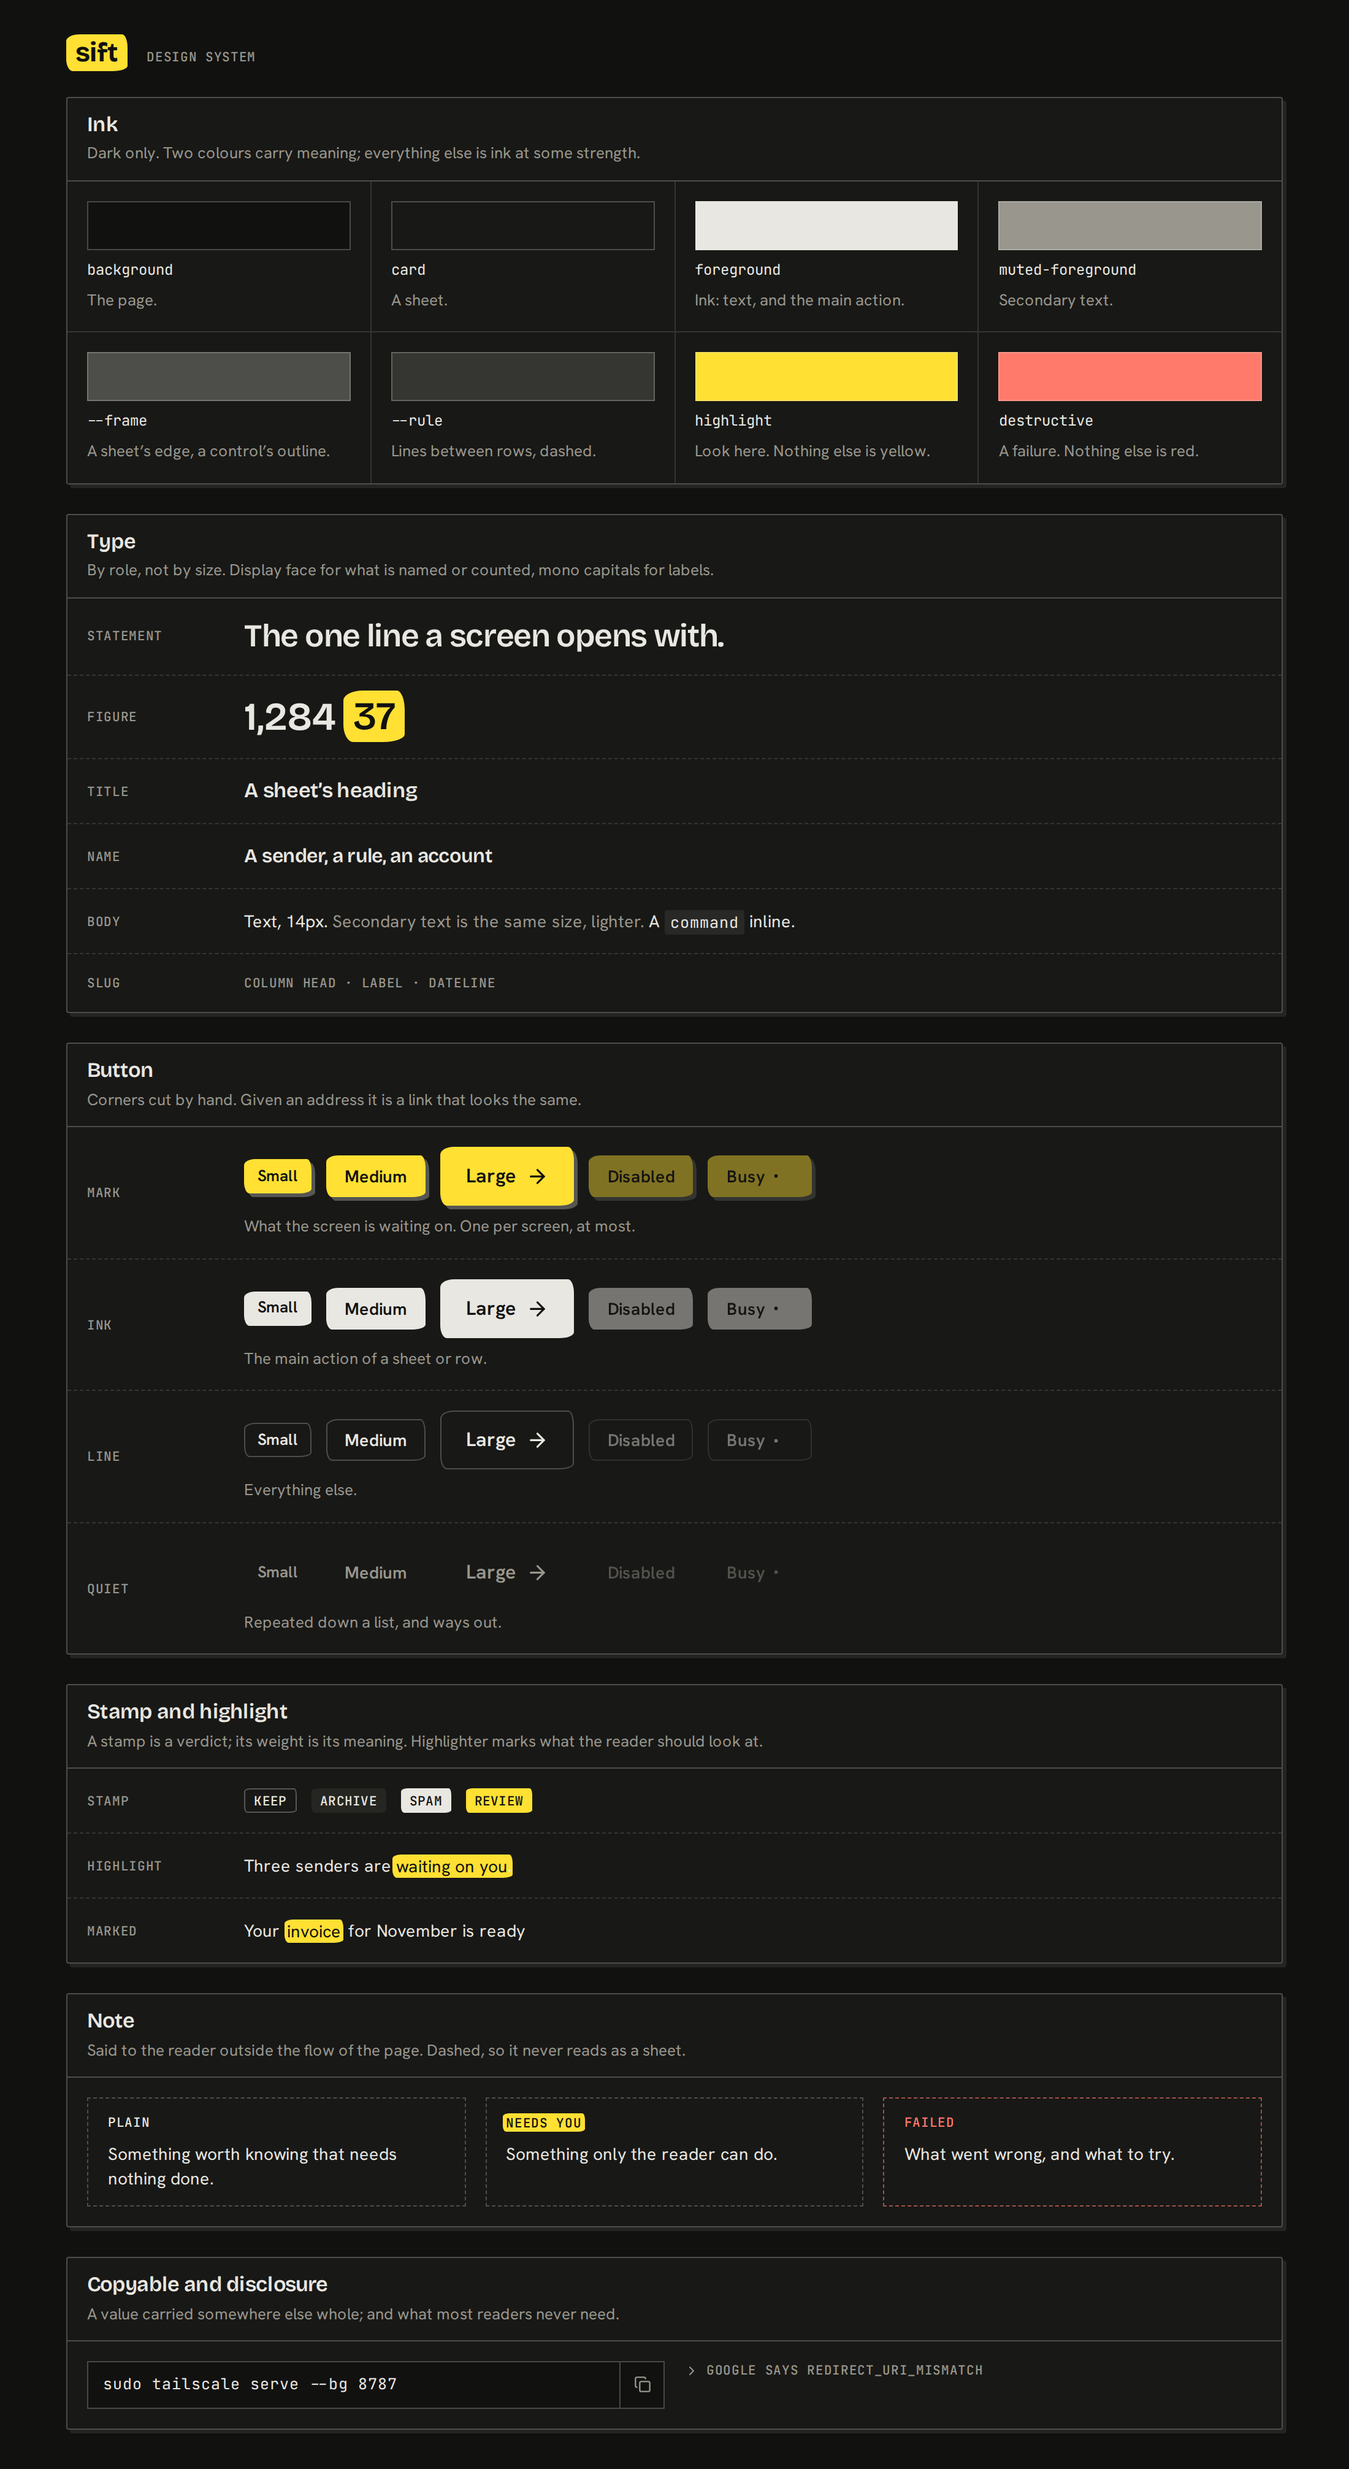
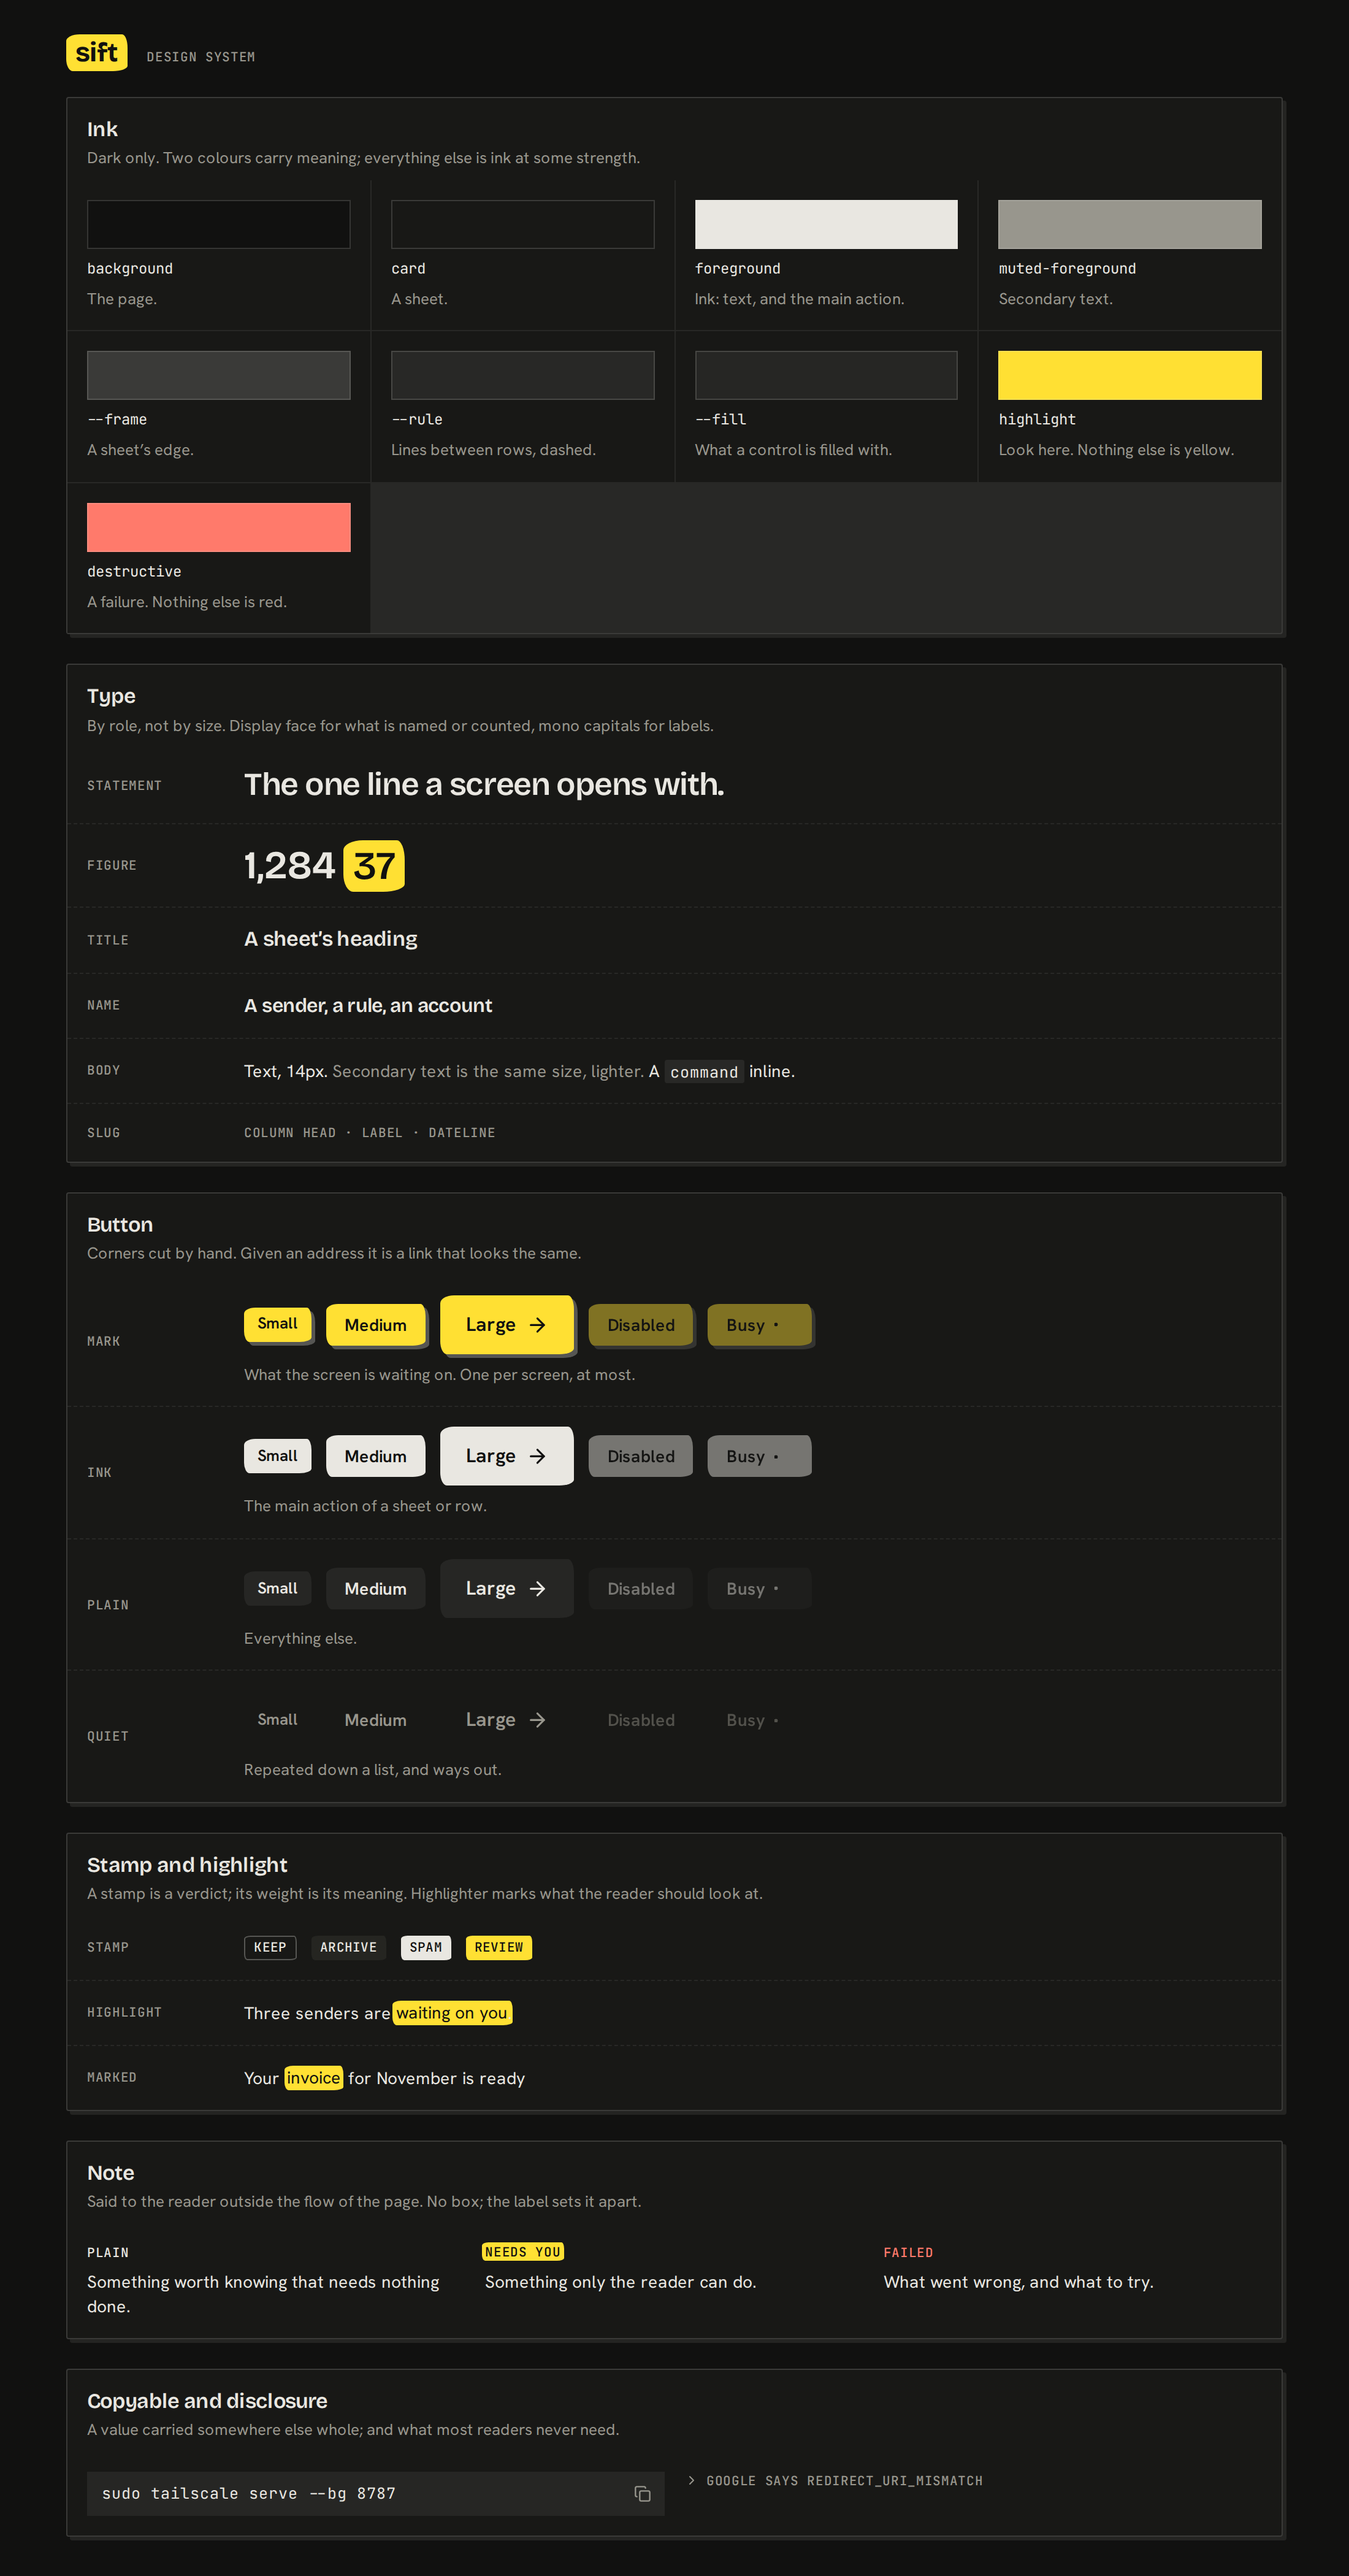
Design system: less chrome
Controls are filled instead of outlined, notes and sheet headings lose
their box and rule, and the lines that remain are fainter. Inside a
sheet, space and type separate things before any line does.

diff --git a/web/src/index.css b/web/src/index.css
@@ -97,8 +97,11 @@
   --edge-strong: color-mix(in oklab, var(--foreground) 30%, transparent);
 
   /* Lines are drawn in the ink colour at low strength, never a separate grey. */
-  --rule: color-mix(in oklab, var(--foreground) 14%, transparent);
-  --frame: color-mix(in oklab, var(--foreground) 26%, transparent);
+  --rule: color-mix(in oklab, var(--foreground) 8%, transparent);
+  --frame: color-mix(in oklab, var(--foreground) 17%, transparent);
+  /* What a control is filled with, in place of an outline. */
+  --fill: color-mix(in oklab, var(--foreground) 7%, transparent);
+  --fill-strong: color-mix(in oklab, var(--foreground) 13%, transparent);
 
   /* Tiers are an ordered cascade, cheapest first, so they share one ink that thins as cost rises.
      Mail no tier could decide gets the highlighter. Checked as an ordinal ramp against the card. */
@@ -291,15 +294,19 @@
 [data-slot='select-trigger'],
 [data-slot='input'],
 [data-slot='button'][data-variant='outline'] {
-  border-color: var(--frame);
-  background-color: transparent;
+  border-color: transparent;
+  background-color: var(--fill);
+}
+[data-slot='select-trigger']:hover,
+[data-slot='input']:hover {
+  background-color: var(--fill-strong);
 }
 [data-slot='select-content'],
 [data-slot='sheet-content'] {
   border-radius: 2px;
 }
 
-/* Lines within a sheet are faint dashes, like the rules of a form; its heading sits over a solid one. */
+/* The only lines within a sheet are faint dashes between rows. A heading is set apart by space. */
 .sheet [data-slot='table-row'],
 .sheet .row {
   border-bottom: 1px dashed var(--rule);
@@ -308,9 +315,8 @@
 .sheet .row:last-child {
   border-bottom: 0;
 }
-.sheet [data-slot='table-header'] [data-slot='table-row'],
-.sheet .sheet-head {
-  border-bottom: 1px solid var(--frame);
+.sheet [data-slot='table-header'] [data-slot='table-row'] {
+  border-bottom: 1px dashed var(--rule);
 }
 .stats {
   background-color: var(--rule);

diff --git a/web/src/views/settings.tsx b/web/src/views/settings.tsx
@@ -64,7 +64,7 @@ function Running({ state, reload }: { state: ManageState; reload: () => void }) 
         }
         action={
           activity.sorting ? (
-            <Button variant="line" size="sm" disabled={busy} onClick={() => run(() => api.checkNow(), reload)}>
+            <Button variant="plain" size="sm" disabled={busy} onClick={() => run(() => api.checkNow(), reload)}>
               Check now
             </Button>
           ) : null
@@ -80,7 +80,7 @@ function Running({ state, reload }: { state: ManageState; reload: () => void }) 
         note={settings.act ? 'Decisions are carried out in Gmail. Each can be undone under Changes.' : 'Nothing in Gmail is changed.'}
       >
         {settings.act ? (
-          <Button variant="line" size="sm" disabled={busy} onClick={() => save({ act: false })}>
+          <Button variant="plain" size="sm" disabled={busy} onClick={() => save({ act: false })}>
             Go back to observing
           </Button>
         ) : confirming ? (
@@ -102,7 +102,7 @@ function Running({ state, reload }: { state: ManageState; reload: () => void }) 
             </Button>
           </>
         ) : (
-          <Button variant="line" size="sm" disabled={busy} onClick={() => setConfirming(true)}>
+          <Button variant="plain" size="sm" disabled={busy} onClick={() => setConfirming(true)}>
             Let sift act…
           </Button>
         )}
@@ -129,7 +129,7 @@ function Accounts({ state }: { state: ManageState }) {
       <SheetHead
         title="Accounts"
         action={
-          <Button variant="line" size="sm" href="/auth/login?add=1">
+          <Button variant="plain" size="sm" href="/auth/login?add=1">
             Connect another
           </Button>
         }

diff --git a/web/src/views/system.tsx b/web/src/views/system.tsx
@@ -7,8 +7,9 @@ const INKS = [
   ['bg-card', 'card', 'A sheet.'],
   ['bg-foreground', 'foreground', 'Ink: text, and the main action.'],
   ['bg-muted-foreground', 'muted-foreground', 'Secondary text.'],
-  ['bg-(--frame)', '--frame', 'A sheet’s edge, a control’s outline.'],
+  ['bg-(--frame)', '--frame', 'A sheet’s edge.'],
   ['bg-(--rule)', '--rule', 'Lines between rows, dashed.'],
+  ['bg-(--fill)', '--fill', 'What a control is filled with.'],
   ['bg-highlight', 'highlight', 'Look here. Nothing else is yellow.'],
   ['bg-destructive', 'destructive', 'A failure. Nothing else is red.'],
 ] as const;
@@ -16,7 +17,7 @@ const INKS = [
 const VARIANTS = [
   ['mark', 'What the screen is waiting on. One per screen, at most.'],
   ['ink', 'The main action of a sheet or row.'],
-  ['line', 'Everything else.'],
+  ['plain', 'Everything else.'],
   ['quiet', 'Repeated down a list, and ways out.'],
 ] as const;
 
@@ -114,7 +115,7 @@ export function SystemView() {
       </Sheet>
 
       <Sheet>
-        <SheetHead title="Note" description="Said to the reader outside the flow of the page. Dashed, so it never reads as a sheet." />
+        <SheetHead title="Note" description="Said to the reader outside the flow of the page. No box; the label sets it apart." />
         <div className="grid gap-4 p-4 sm:grid-cols-3">
           <Note title="Plain">
             <p>Something worth knowing that needs nothing done.</p>

diff --git a/web/src/system/button.tsx b/web/src/system/button.tsx
@@ -10,9 +10,9 @@ const VARIANT = {
   /** The main action of a sheet or a row. */
   ink: 'bg-foreground text-background hover:bg-foreground/85',
   /** Everything else. */
-  line: 'border-(--frame) hover:bg-foreground/8',
+  plain: 'bg-(--fill) hover:bg-(--fill-strong)',
   /** Actions that repeat down a list, and ways out. */
-  quiet: 'text-muted-foreground hover:bg-foreground/8 hover:text-foreground',
+  quiet: 'text-muted-foreground hover:bg-(--fill) hover:text-foreground',
 } as const;
 
 const SIZE = {
@@ -32,7 +32,7 @@ interface Own {
 type Props = Own & (({ href: string } & Omit<ComponentProps<'a'>, 'children'>) | ({ href?: undefined } & Omit<ComponentProps<'button'>, 'children'>));
 
 /** Something you press. Given `href` it is a link that looks the same. */
-export function Button({ variant = 'line', size = 'md', busy = false, className, children, ...rest }: Props) {
+export function Button({ variant = 'plain', size = 'md', busy = false, className, children, ...rest }: Props) {
   const classes = cn(BASE, VARIANT[variant], SIZE[size], busy && 'pointer-events-none', className);
   const content = (
     <>

diff --git a/web/src/system/copyable.tsx b/web/src/system/copyable.tsx
@@ -7,13 +7,13 @@ export function Copyable({ value, label }: { value: string; label: string }) {
   // The clipboard is only offered to pages on localhost or HTTPS.
   const clipboard = typeof navigator !== 'undefined' ? navigator.clipboard : undefined;
   return (
-    <div className="flex items-stretch border border-(--frame) bg-background">
+    <div className="flex items-stretch bg-(--fill)">
       <code className="min-w-0 flex-1 px-3 py-2 font-mono text-[12.5px] leading-relaxed break-all select-all">{value}</code>
       {clipboard ? (
         <button
           type="button"
           aria-label={copied ? 'Copied' : `Copy ${label}`}
-          className="flex w-9 shrink-0 cursor-pointer items-center justify-center border-l border-(--frame) text-muted-foreground hover:bg-foreground/8 hover:text-foreground"
+          className="flex w-9 shrink-0 cursor-pointer items-center justify-center text-muted-foreground hover:bg-(--fill) hover:text-foreground"
           onClick={() =>
             void clipboard.writeText(value).then(() => {
               setCopied(true);

diff --git a/web/src/system/note.tsx b/web/src/system/note.tsx
@@ -3,7 +3,7 @@ import { cn } from '@/lib/utils';
 
 /**
  * Something said to the reader outside the flow of the page. `look` needs them to do something;
- * `failure` is the only place red appears.
+ * `failure` is the only place red appears. No box: the label sets it apart.
  */
 export function Note({
   tone = 'plain',
@@ -17,10 +17,7 @@ export function Note({
   className?: string;
 }) {
   return (
-    <div
-      role={tone === 'failure' ? 'alert' : undefined}
-      className={cn('flex flex-col gap-2 border border-dashed px-4 py-3 text-sm', tone === 'failure' ? 'border-destructive/60' : 'border-(--frame)', className)}
-    >
+    <div role={tone === 'failure' ? 'alert' : undefined} className={cn('flex flex-col gap-1.5 text-sm', className)}>
       {title ? (
         <p className="slug">
           <span className={cn(tone === 'look' && 'hl', tone === 'failure' && 'text-destructive')}>{title}</span>

diff --git a/web/src/views/sign-in.tsx b/web/src/views/sign-in.tsx
@@ -34,7 +34,7 @@ function Ready({ session }: { session: Session }) {
         Sign in with Google
         <ArrowRightIcon aria-hidden />
       </Button>
-      <div className="mt-1 border-t border-dashed border-(--rule) pt-4">
+      <div className="mt-2">
         <Disclosure summary="Google says redirect_uri_mismatch">
           <p>Add this to the client's authorised redirect URIs, in Google Cloud:</p>
           <Copyable value={session.redirectUri} label="redirect URI" />
@@ -94,5 +94,5 @@ function Blocked({ session }: { session: Session }) {
 }
 
 function Step({ children }: { children: ReactNode }) {
-  return <div className="flex flex-col gap-2 border-t border-dashed border-(--rule) pt-4 text-[13px] text-muted-foreground">{children}</div>;
+  return <div className="mt-2 flex flex-col gap-2 text-[13px] text-muted-foreground">{children}</div>;
 }

diff --git a/web/src/views/decisions.tsx b/web/src/views/decisions.tsx
@@ -62,10 +62,10 @@ export function Decisions({ days, onOpen }: { days: Days; onOpen: (row: Decision
           <span>
             {count(offset + 1)}–{count(Math.min(offset + PAGE, data.total))} of {count(data.total)}
           </span>
-          <Button variant="line" size="sm" disabled={offset === 0} onClick={() => setOffset(Math.max(0, offset - PAGE))}>
+          <Button variant="plain" size="sm" disabled={offset === 0} onClick={() => setOffset(Math.max(0, offset - PAGE))}>
             Newer
           </Button>
-          <Button variant="line" size="sm" disabled={offset + PAGE >= data.total} onClick={() => setOffset(offset + PAGE)}>
+          <Button variant="plain" size="sm" disabled={offset + PAGE >= data.total} onClick={() => setOffset(offset + PAGE)}>
             Older
           </Button>
         </div>

diff --git a/web/src/system/sheet.tsx b/web/src/system/sheet.tsx
@@ -8,7 +8,7 @@ export function Sheet({ className, ...props }: ComponentProps<'div'>) {
 
 export function SheetHead({ title, description, action }: { title: string; description?: string; action?: ReactNode }) {
   return (
-    <div className="sheet-head flex items-start gap-4 px-4 py-3">
+    <div className="flex items-start gap-4 px-4 pt-4 pb-2">
       <div className="min-w-0 flex-1">
         <h2 className="title">{title}</h2>
         {description ? <p className="mt-1 text-[13px] text-muted-foreground">{description}</p> : null}

diff --git a/web/src/views/changes.tsx b/web/src/views/changes.tsx
@@ -67,7 +67,7 @@ export function ChangesView({ onOpen }: { onOpen: (message: MessageRef) => void 
                     <TableCell className={`${TD} text-right`}>
                       {change.status === 'done' && change.type !== 'undo' ? (
                         <Button
-                          variant="line"
+                          variant="plain"
                           size="sm"
                           disabled={action.busy}
                           onClick={() =>

diff --git a/web/src/views/overview.tsx b/web/src/views/overview.tsx
@@ -194,7 +194,7 @@ export function Overview({ data, onOpen, onViewAll }: { data: Summary; onOpen: (
         <SheetHead
           title="Latest decisions"
           action={
-            <Button variant="line" size="sm" onClick={onViewAll}>
+            <Button variant="plain" size="sm" onClick={onViewAll}>
               View all
             </Button>
           }

diff --git a/web/src/components/bits.tsx b/web/src/components/bits.tsx
@@ -59,7 +59,7 @@ export function Empty({ children }: { children: ReactNode }) {
 
 export function ErrorNote({ message }: { message: string }) {
   return (
-    <Note tone="failure" title="Could not refresh" className="bg-card">
+    <Note tone="failure" title="Could not refresh">
       <p>
         {message} Is <Code>sift run</Code> still going?
       </p>
